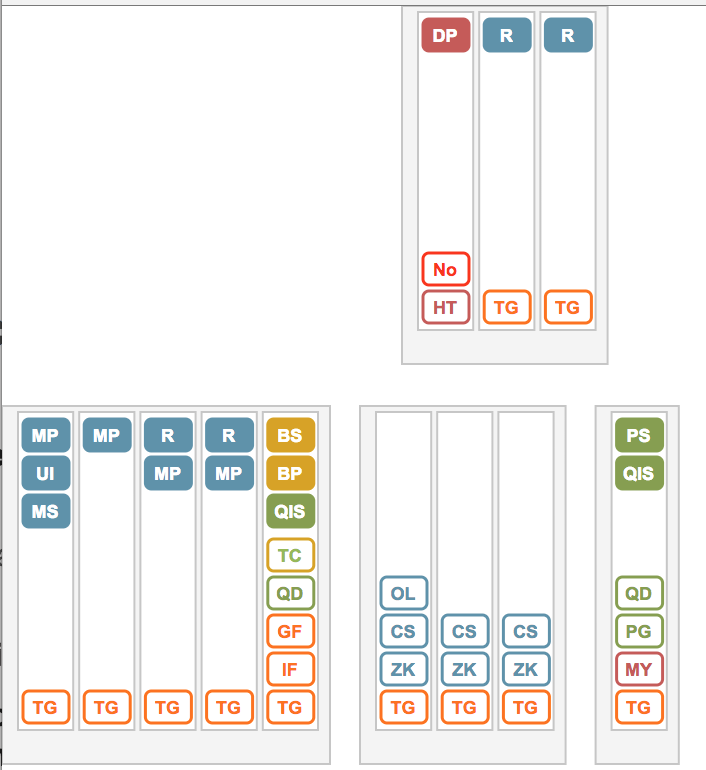
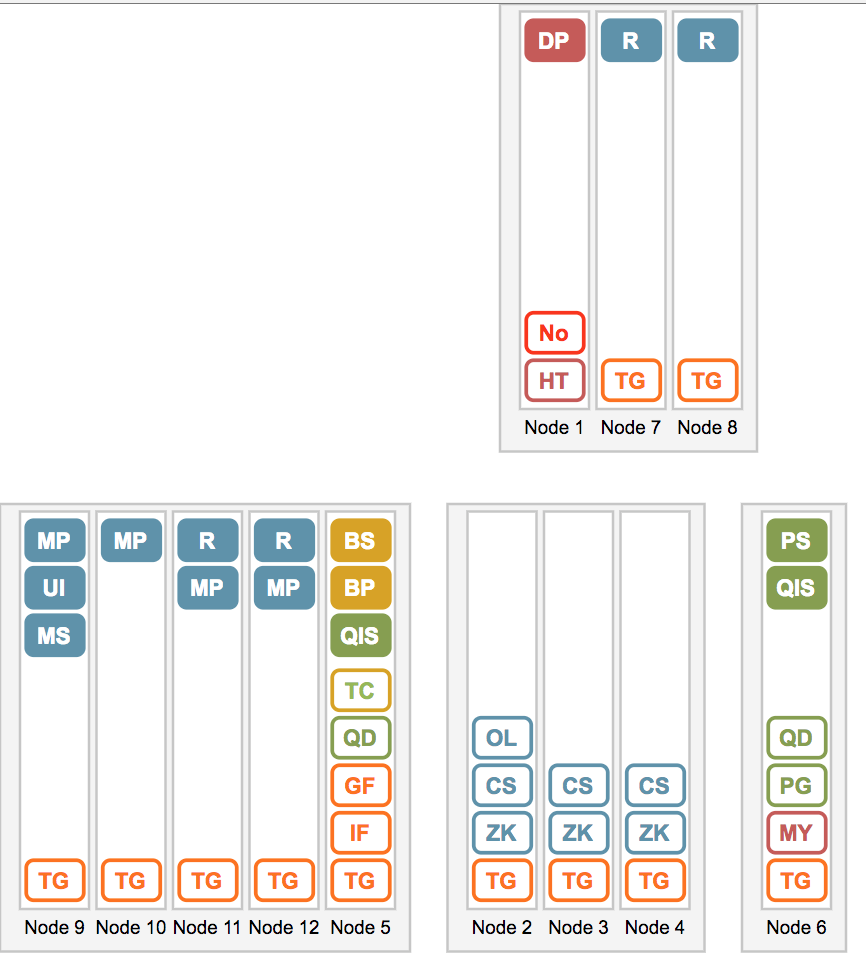
svgdiagram: add node labels.

Changed region(s): [[0.0, 0.0, 0.9972, 0.9974], [0.0, 0.0, 0.0312, 0.0312]]

diff --git a/generateSvgDiagram.js b/generateSvgDiagram.js
@@ -246,7 +246,11 @@ id="svg2">
     var nodeSpacingH = 3;
     var nodePadding = 2;
 
-    var nodeTemplate = fp.template('\n<rect id="node<%= id%>" x="<%= x %>" y="<%= y %>" width="27.6" height="<%= height %>" style="fill:#ffffff;stroke:#bfbfbf"/>');
+    var nodeTemplate = fp.template(`\n
+    <rect id="node<%= id %>" x="<%= x %>" y="<%= y %>" width="27.6" height="<%= height %>" style="fill:#ffffff;stroke:#bfbfbf"/>
+    <text id="nodetext<%= id %>" x="<%= textx() %>" y="<%= texty() %>" style="font-weight:normal;font-size:7.5px;font-family:Arial;"
+        alignment-baseline="middle" text-anchor="middle"><%= text() %></text>
+    `);
 
 
     //var subnetWidth = 15;
@@ -321,9 +325,17 @@ id="svg2">
 
             fp(topology.layout).keyBy('node').at(subnet.nodes).filter().reduce(
                 (acc, i) => {
-                    console.log(i.components); 
+                        // console.log(i.components); 
                     
-                        acc.push( nodeTemplate({ id: i.node, x: 1+subnetX + subnetPaddingH + nodeX, y: subnetY + subnetPaddingV + nodeY, height: nodeHeightTotal }) );
+                        acc.push( nodeTemplate({ 
+                            id: i.node, 
+                            x: 1+subnetX + subnetPaddingH + nodeX, 
+                            y: subnetY + subnetPaddingV + nodeY, 
+                            height: nodeHeightTotal,
+                            textx: function(){ return this.x + nodeWidth/2 }, 
+                            texty: function(){ return this.y + this.height + 8 },
+                            text: function() { return "Node " + this.id }
+                         }) );
                     
                         function genComps(comps, compX, compY, compInc){
 
